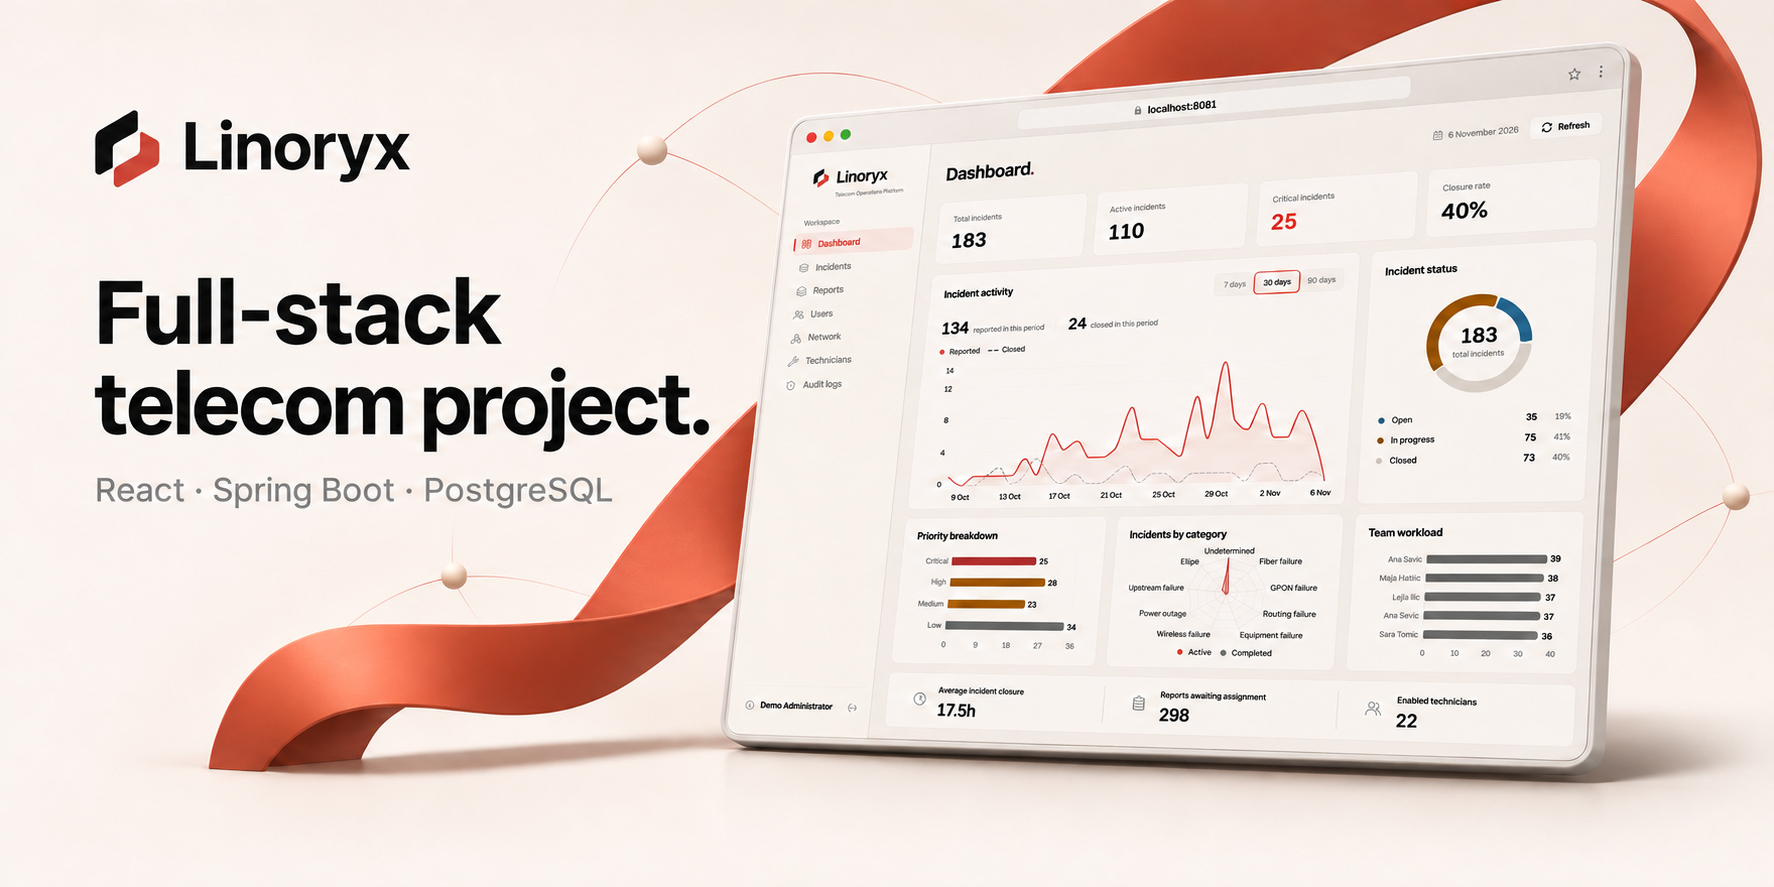
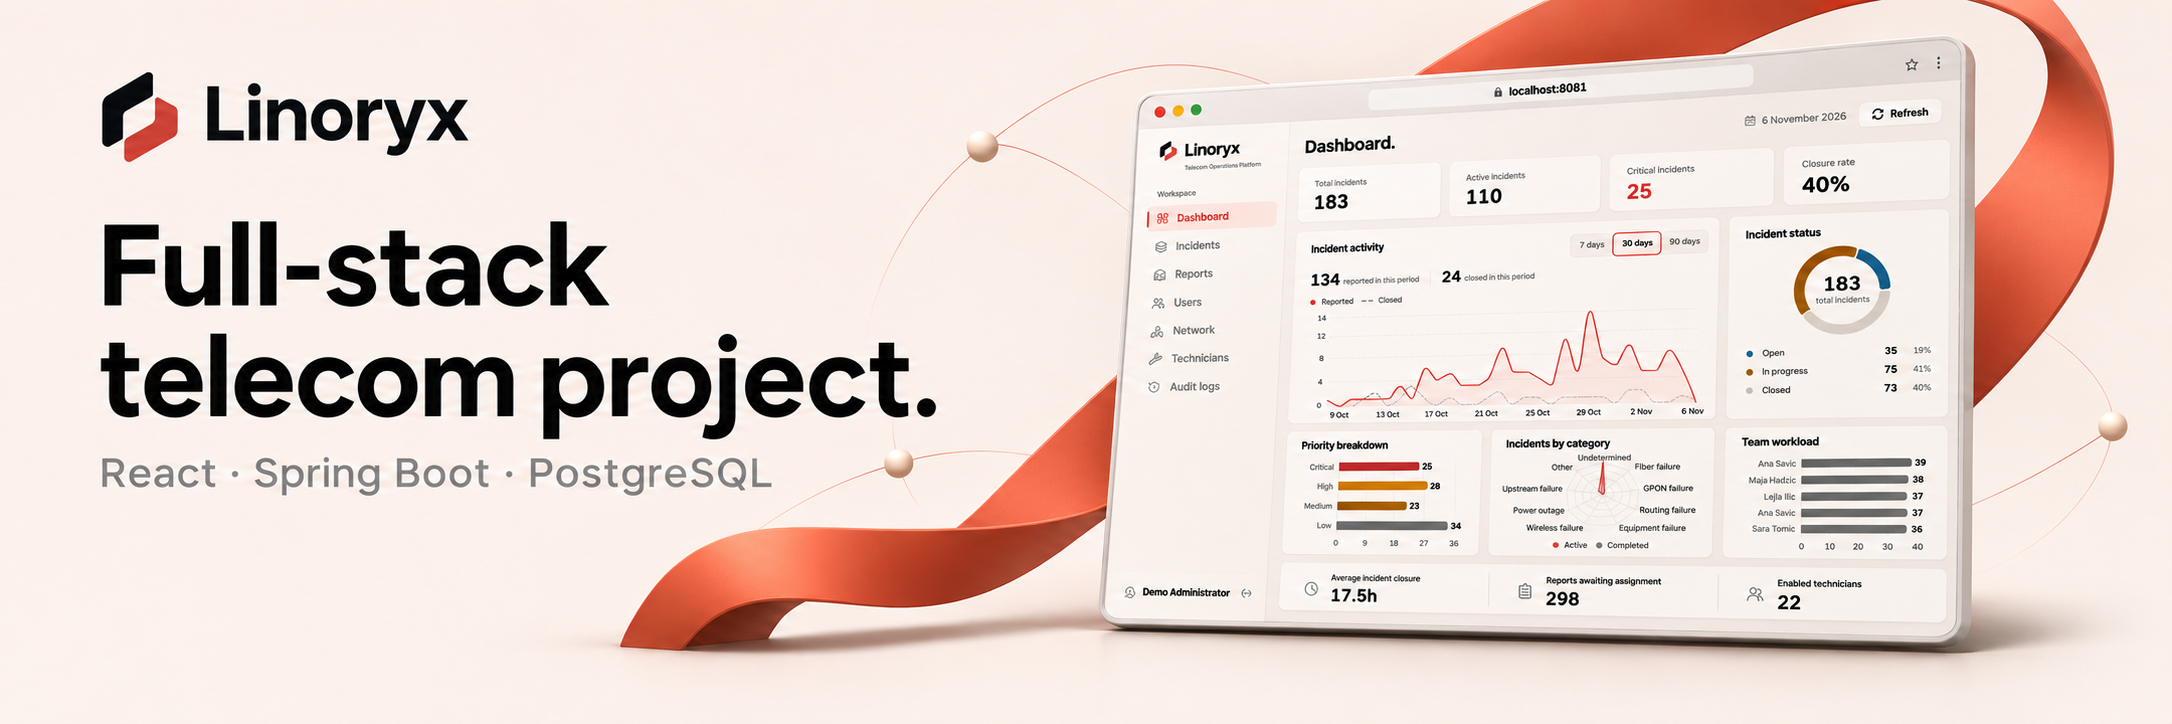
docs: fix compact four-slide README carousel

diff --git a/docs/readme/visuals/prompts.md b/docs/readme/visuals/prompts.md
@@ -1,27 +1,27 @@
-# README image prompts
+# README carousel image prompts
 
-These images were generated or edited with the built-in image-generation tool. The final files are `overview.png`, `integrations.png` and `responsive.png`. WebP copies are used in the README, and the GIF rotates through all three.
+The built-in image-generation tool produced four matching 3:1 slides. They are saved as `intro.png`, `overview.png`, `integrations.png` and `responsive.png`. The header embeds one GIF containing all four, in that order.
 
-## Overview
+## intro
 
-The base image uses the actual dashboard screenshot and Linoryx branding. These edits removed the footer and changed the wording to describe a full-stack project.
+Reference images: `linoryx-web/public/brand/auth-background.webp`, `linoryx-web/public/brand/social-preview.png`.
 
-### Footer edit
+Create ONE single carousel slide, ultra-wide panoramic 3:1 aspect ratio, approximately 1800x600. It must be SHORT and WIDE, like an ecommerce homepage carousel banner, not a tall poster. Recompose the scene to fit the new wide frame; never squash or stretch objects or UI. Keep important text and devices inside a 5% safe margin, with 5% clear space at bottom for carousel dots added later. No footer, no bottom logo, no footer rule, no buttons, no pagination, no watermark. The project is a junior developer portfolio, not a commercial advertisement. Inter-like typography and the existing Linoryx identity. Brand intro slide. Image 1 is the existing login/register red artwork and is the visual direction; image 2 is the approved Linoryx brand identity. Use a rich warm red / deep burgundy background inspired by the actual login screen, with subtle copper network paths and a restrained wave of light points. The left half shows ONE accurate Linoryx logo and wordmark, followed by exact readable text "Telecom Operations Platform". Use warm ivory lettering for contrast where needed, preserving the original interlocking ribbon mark shape. On the right, create a polished floating warm ivory access-card illustration inspired by a login/register screen, with a small neutral form layout and a few telecom network nodes / subtle antenna elements connected by fine lines. This is a cover illustration, not another dashboard slide. Strong horizontal composition, restrained details, calm red lighting. No marketing slogan and no sales claims.
 
-Edit this existing Linoryx product banner precisely. Remove the ENTIRE added footer at the very bottom: the repeated Linoryx logo/wordmark, the horizontal footer rule, and any footer caption such as Telecom Operations Platform. Fill those bottom pixels with a seamless continuation of the existing natural ivory studio background and lighting. Keep the original aspect ratio and dimensions. Preserve everything else: main headline, subtitle, primary top logo if present, device and UI screens, colors, ribbon, object positions, shadows. Do not add a new footer, bottom logo, bottom line, bottom text or watermark. Do not redesign the image. Also correct only the tiny fictional browser URL app.linoryx.com to localhost:8081. Keep the rest of the dashboard intact.
+## overview
 
-### Project wording edit
+Reference images: `docs/readme/visuals/overview.png`, `docs/readme/dashboard.jpg`.
 
-Make only two text substitutions in this existing Linoryx README banner. Replace the large headline "Operations, connected." with exact text "Full-stack telecom project." arranged naturally across two lines, in the same charcoal Inter-like type and same left area. Replace the small subtitle "Telecom Operations Platform" with exact text "React · Spring Boot · PostgreSQL". This is a junior developer portfolio project, so the wording should simply describe the work. Preserve the original Linoryx primary logo, actual dashboard screenshot, localhost:8081 browser URL, ivory background, terracotta ribbon, lighting, shadows, dimensions and all object placements. Do not redesign or change the interface. Do not add a footer, bottom logo, rule, caption, slogan, CTA or watermark. Keep the bottom as a plain continuation of the studio background.
+Create ONE single carousel slide, ultra-wide panoramic 3:1 aspect ratio, approximately 1800x600. It must be SHORT and WIDE, like an ecommerce homepage carousel banner, not a tall poster. Recompose the scene to fit the new wide frame; never squash or stretch objects or UI. Keep important text and devices inside a 5% safe margin, with 5% clear space at bottom for carousel dots added later. No footer, no bottom logo, no footer rule, no buttons, no pagination, no watermark. The project is a junior developer portfolio, not a commercial advertisement. Inter-like typography and the existing Linoryx identity. Edit/recompose the supplied full-stack project slide into this 3:1 horizontal format. Preserve the original logo, warm ivory and terracotta style and actual dashboard content. Left 43%: exact headline "Full-stack telecom project." on at most two lines, smaller exact text "React · Spring Boot · PostgreSQL". Right 57%: the real dashboard in a slim browser window, completely within the short horizontal canvas, with a restrained terracotta ribbon behind it. Keep localhost:8081 if the address bar is visible. Reduce empty top/bottom space and reduce the browser window proportionally to fit; do not crop off the interface or stretch it. All visual weight should fit a compact banner, not an expanded square composition.
 
-## External integrations
+## integrations
 
-Reference: the existing Linoryx social-preview image, used for the logo and colors.
+Reference images: `docs/readme/visuals/integrations.png`.
 
-Create a landscape 2:1 illustrated README image for a JUNIOR DEVELOPER'S full-stack portfolio project named Linoryx. This image showcases implemented integrations, not a commercial product advertisement. Use the attached brand image only as the logo and palette reference. Warm ivory #F7F5F2, charcoal #1A1A1A, restrained terracotta #D05445, Inter-like type. Main exact heading on left: "External API integrations." Under it, exact smaller text: "Geoapify geocoding · Gmail SMTP". On the right create two clearly separate polished technical illustrations with precise connecting arrows: upper integration shows a realistic address-search input, a folded street map with one terracotta location pin and a clearly labelled "Geoapify" API card, representing server-side address search and coordinate verification; lower integration shows a "Report resolved" event card linked to a "Spring Mail" card and an email envelope clearly labelled "Gmail SMTP". This is SMTP email, DO NOT label it the Gmail REST API. Communicate what was built through these two integration flows using tasteful dimensional ivory cards, thin network lines and subtle shadows. Do not invent app screens, live usage counts, deployment URLs or performance claims. No slogans, no call-to-action buttons, no sales language, no footer of any kind, no bottom repeated logo, no horizontal footer line, no bottom caption. Keep all objects inset at least 6%. A single small original Linoryx logo at upper left is enough. Aim for a designed portfolio technical case-study visual, crisp readable text and disciplined spacing.
+Create ONE single carousel slide, ultra-wide panoramic 3:1 aspect ratio, approximately 1800x600. It must be SHORT and WIDE, like an ecommerce homepage carousel banner, not a tall poster. Recompose the scene to fit the new wide frame; never squash or stretch objects or UI. Keep important text and devices inside a 5% safe margin, with 5% clear space at bottom for carousel dots added later. No footer, no bottom logo, no footer rule, no buttons, no pagination, no watermark. The project is a junior developer portfolio, not a commercial advertisement. Inter-like typography and the existing Linoryx identity. Edit/recompose the supplied integrations illustration into a 3:1 horizontal strip. Preserve the actual technical content and ivory/terracotta visual style. Left 38%: exact headline "External API integrations." on at most two lines; smaller text "Geoapify geocoding · Gmail SMTP". Right 62%: two compact horizontal integration flows, one above the other: address lookup → Geoapify → map pin; Report resolved → Spring Mail → Gmail SMTP. Simplify tiny decorative details so the text and technical flow stay readable at this shallow banner height. Do not invent other services. This is Gmail SMTP, not the Gmail REST API. No tall stacks of cards and no excess vertical whitespace.
 
-## Responsive design
+## responsive
 
-The base image uses the actual desktop, tablet and phone login captures. This edit removes the added footer while keeping the device presentation.
+Reference images: `docs/readme/visuals/responsive.png`, `docs/readme/captures/login-desktop.jpg`, `docs/readme/captures/login-tablet.jpg`, `docs/readme/captures/login-phone.jpg`.
 
-Edit this existing Linoryx product banner precisely. Remove the ENTIRE added footer at the very bottom: the repeated Linoryx logo/wordmark, the horizontal footer rule, and any footer caption such as Telecom Operations Platform. Fill those bottom pixels with a seamless continuation of the existing natural ivory studio background and lighting. Keep the original aspect ratio and dimensions. Preserve everything else: main headline, subtitle, primary top logo if present, device and UI screens, colors, ribbon, object positions, shadows. Do not add a new footer, bottom logo, bottom line, bottom text or watermark. Do not redesign the image.
+Create ONE single carousel slide, ultra-wide panoramic 3:1 aspect ratio, approximately 1800x600. It must be SHORT and WIDE, like an ecommerce homepage carousel banner, not a tall poster. Recompose the scene to fit the new wide frame; never squash or stretch objects or UI. Keep important text and devices inside a 5% safe margin, with 5% clear space at bottom for carousel dots added later. No footer, no bottom logo, no footer rule, no buttons, no pagination, no watermark. The project is a junior developer portfolio, not a commercial advertisement. Inter-like typography and the existing Linoryx identity. Edit/recompose the supplied device illustration into a 3:1 horizontal strip. Preserve the real Linoryx login screens: desktop has white form + red artwork panel; tablet and phone have the responsive white form. Left 35%: exact headline "Responsive design." on at most two lines; smaller exact text "Laptop · Tablet · Phone". Right 65%: one silver laptop, one portrait tablet, one portrait phone, all entirely within the short wide frame with correct unstretched proportions and clean edges. Scale the devices down proportionally and arrange horizontally rather than raising them into a tall poster. Preserve original logo and UI, warm ivory background, terracotta ribbon and soft shadows. No extra devices and no extra text.

diff --git a/README.md b/README.md
@@ -1,14 +1,5 @@
 <p align="center">
-  <picture>
-    <source media="(prefers-reduced-motion: reduce)" srcset="docs/readme/visuals/overview.webp" />
-    <img src="docs/readme/visuals/header-carousel.gif" alt="Linoryx full-stack project: dashboard, external integrations and responsive layouts" width="1200" height="600" />
-  </picture>
-</p>
-
-<p align="center">
-  <a href="docs/readme/visuals/overview.webp">Overview</a> ·
-  <a href="docs/readme/visuals/integrations.webp">Integrations</a> ·
-  <a href="docs/readme/visuals/responsive.webp">Devices</a>
+  <img src="docs/readme/visuals/header-carousel.gif" alt="Four-slide carousel: Linoryx telecom introduction, full-stack project, external API integrations and responsive design" width="1200" height="400" />
 </p>
 
 # Linoryx — Telecom Operations Platform
@@ -17,7 +8,7 @@ Linoryx is a full-stack project for managing telecom services and repair reports
 
 The project covers role-based access, report workflows, database relationships, external integrations and testing. You can run it locally with Docker.
 
-## <picture><source media="(prefers-reduced-motion: reduce)" srcset="docs/readme/visuals/product-preview-title.png" /><img src="docs/readme/visuals/product-preview-title.gif" alt="Product preview" width="1200" height="132" /></picture>
+## <img src="docs/readme/visuals/product-preview-title.gif" alt="Product preview" width="1200" height="132" />
 
 The dashboard shows open incidents, priorities and team workload. Here is the app running with local demo data.
 
@@ -27,13 +18,13 @@ The dashboard shows open incidents, priorities and team workload. Here is the ap
 - **Screenshots:** [dashboard](docs/readme/dashboard.jpg), [sign-in](docs/readme/captures/login-desktop.jpg) and [incident details](docs/readme/incident.jpg).
 - **Product walkthrough video:** coming soon.
 
-## <picture><source media="(prefers-reduced-motion: reduce)" srcset="docs/readme/visuals/responsive-design-title.png" /><img src="docs/readme/visuals/responsive-design-title.gif" alt="Responsive design" width="1200" height="132" /></picture>
+## <img src="docs/readme/visuals/responsive-design-title.gif" alt="Responsive design" width="1200" height="132" />
 
 ![Linoryx sign-in shown on a laptop, tablet and phone](docs/readme/visuals/responsive.webp)
 
 The layout adapts to laptops, tablets and phones. The sign-in form stays simple on smaller screens, with the artwork shown on desktop.
 
-## <picture><source media="(prefers-reduced-motion: reduce)" srcset="docs/readme/visuals/external-integrations-title.png" /><img src="docs/readme/visuals/external-integrations-title.gif" alt="External API integrations" width="1200" height="132" /></picture>
+## <img src="docs/readme/visuals/external-integrations-title.gif" alt="External API integrations" width="1200" height="132" />
 
 ![Implemented Geoapify address search and Gmail SMTP report notifications](docs/readme/visuals/integrations.webp)
 
@@ -42,7 +33,7 @@ The layout adapts to laptops, tablets and phones. The sign-in form stays simple 
 
 See [location setup](docs/network-services.md) and [email notifications](docs/email-notifications.md) for details.
 
-## <picture><source media="(prefers-reduced-motion: reduce)" srcset="docs/readme/visuals/existing-features-title.png" /><img src="docs/readme/visuals/existing-features-title.gif" alt="Existing features" width="1200" height="132" /></picture>
+## <img src="docs/readme/visuals/existing-features-title.gif" alt="Existing features" width="1200" height="132" />
 
 | Area | What it does |
 | --- | --- |
@@ -58,7 +49,7 @@ See [location setup](docs/network-services.md) and [email notifications](docs/em
 
 Address search needs a Geoapify API key. Maps use Leaflet and OpenStreetMap and need an internet connection. Existing records remain available without the key.
 
-## <picture><source media="(prefers-reduced-motion: reduce)" srcset="docs/readme/visuals/roles-title.png" /><img src="docs/readme/visuals/roles-title.gif" alt="Roles" width="1200" height="132" /></picture>
+## <img src="docs/readme/visuals/roles-title.gif" alt="Roles" width="1200" height="132" />
 
 | Role | Access |
 | --- | --- |
@@ -69,7 +60,7 @@ Address search needs a Geoapify API key. Maps use Leaflet and OpenStreetMap and 
 
 New accounts start as customers. The backend checks permissions for each role.
 
-## <picture><source media="(prefers-reduced-motion: reduce)" srcset="docs/readme/visuals/use-case-diagram-title.png" /><img src="docs/readme/visuals/use-case-diagram-title.gif" alt="Use-case diagram" width="1200" height="132" /></picture>
+## <img src="docs/readme/visuals/use-case-diagram-title.gif" alt="Use-case diagram" width="1200" height="132" />
 
 The diagram shows the main actions for all four roles. `«include»` means a required step; `«extend»` means an optional action. Administrators also have dispatcher access.
 
@@ -77,12 +68,9 @@ The diagram shows the main actions for all four roles. `«include»` means a req
 
 [Editable use-case source](docs/readme/visuals/source/use-cases.puml)
 
-## <picture><source media="(prefers-reduced-motion: reduce)" srcset="docs/readme/visuals/workflows-title.png" /><img src="docs/readme/visuals/workflows-title.gif" alt="Workflows" width="1200" height="132" /></picture>
+## <img src="docs/readme/visuals/workflows-title.gif" alt="Workflows" width="1200" height="132" />
 
-<picture>
-  <source media="(prefers-reduced-motion: reduce)" srcset="docs/readme/visuals/workflow.png" />
-  <img src="docs/readme/visuals/workflow.gif" alt="Report workflow: open, in progress, resolved and closed" width="1200" height="330" />
-</picture>
+<img src="docs/readme/visuals/workflow.gif" alt="Report workflow: open, in progress, resolved and closed" width="1200" height="330" />
 
 1. A customer reports a problem with an active service.
 2. An administrator or dispatcher links the report to an incident, starts the incident and assigns a technician.
@@ -92,7 +80,7 @@ The diagram shows the main actions for all four roles. `«include»` means a req
 
 Reports use `OPEN → IN_PROGRESS → RESOLVED → CLOSED`. Incidents use `OPEN → IN_PROGRESS → CLOSED`.
 
-## <picture><source media="(prefers-reduced-motion: reduce)" srcset="docs/readme/visuals/architecture-and-stack-title.png" /><img src="docs/readme/visuals/architecture-and-stack-title.gif" alt="Architecture and stack" width="1200" height="132" /></picture>
+## <img src="docs/readme/visuals/architecture-and-stack-title.gif" alt="Architecture and stack" width="1200" height="132" />
 
 ```text
 Browser → Nginx / React → Spring Boot REST API → PostgreSQL
@@ -128,7 +116,7 @@ docs/                            Project documentation
 compose.yaml                     Local Docker services
 ```
 
-## <picture><source media="(prefers-reduced-motion: reduce)" srcset="docs/readme/visuals/database-schema-title.png" /><img src="docs/readme/visuals/database-schema-title.gif" alt="Database schema" width="1200" height="132" /></picture>
+## <img src="docs/readme/visuals/database-schema-title.gif" alt="Database schema" width="1200" height="132" />
 
 The database has 11 tables and 16 foreign-key relationships. The overview shows the main fields, keys and relationships. Click it to open the full schema with all columns.
 
@@ -136,7 +124,7 @@ The database has 11 tables and 16 foreign-key relationships. The overview shows 
 
 [Editable schema source](docs/readme/visuals/source/database-schema.dot)
 
-## <picture><source media="(prefers-reduced-motion: reduce)" srcset="docs/readme/visuals/run-locally-title.png" /><img src="docs/readme/visuals/run-locally-title.gif" alt="Run locally" width="1200" height="132" /></picture>
+## <img src="docs/readme/visuals/run-locally-title.gif" alt="Run locally" width="1200" height="132" />
 
 Install JDK 25, Node.js 22.12+ and Docker Desktop with Linux containers. The Maven Wrapper is included. Run these commands in PowerShell from the project root.
 
@@ -193,7 +181,7 @@ For development, run these in separate terminals:
 
 Vite forwards `/api` requests to `API_PROXY_TARGET`, which defaults to `http://localhost:8080` in the example file.
 
-## <picture><source media="(prefers-reduced-motion: reduce)" srcset="docs/readme/visuals/testing-title.png" /><img src="docs/readme/visuals/testing-title.gif" alt="Testing" width="1200" height="132" /></picture>
+## <img src="docs/readme/visuals/testing-title.gif" alt="Testing" width="1200" height="132" />
 
 Use a separate database for backend tests:
 
@@ -217,7 +205,7 @@ Pop-Location
 
 The tests cover sign-in, permissions, services, reports, incidents and technicians. The frontend build also checks TypeScript. Previous local results are in [rebranding validation](docs/rebrand-validation.md).
 
-## <picture><source media="(prefers-reduced-motion: reduce)" srcset="docs/readme/visuals/upgrading-title.png" /><img src="docs/readme/visuals/upgrading-title.gif" alt="Upgrading an existing checkout" width="1200" height="132" /></picture>
+## <img src="docs/readme/visuals/upgrading-title.gif" alt="Upgrading an existing checkout" width="1200" height="132" />
 
 The folders are now `linoryx-api` and `linoryx-web`, and the Java package is `com.linoryx.api`. Update any IDE settings or scripts that use the old paths. Keep your existing `.env` values.
 
@@ -225,7 +213,7 @@ Rebuild the Docker images using the commands above, then run `docker compose up 
 
 Some internal names still use `vigil` to keep existing data and sessions working. See [brand guidelines](docs/brand-guidelines.md) for details.
 
-## <picture><source media="(prefers-reduced-motion: reduce)" srcset="docs/readme/visuals/documentation-title.png" /><img src="docs/readme/visuals/documentation-title.gif" alt="Further documentation" width="1200" height="132" /></picture>
+## <img src="docs/readme/visuals/documentation-title.gif" alt="Further documentation" width="1200" height="132" />
 
 - [Brand guidelines](docs/brand-guidelines.md)
 - [Frontend design](docs/frontend-design.md)
@@ -234,7 +222,7 @@ Some internal names still use `vigil` to keep existing data and sessions working
 - [Technician management](docs/technician-management.md)
 - [Local demo data](docs/demo-data.md)
 
-## <picture><source media="(prefers-reduced-motion: reduce)" srcset="docs/readme/visuals/roadmap-title.png" /><img src="docs/readme/visuals/roadmap-title.gif" alt="Roadmap" width="1200" height="132" /></picture>
+## <img src="docs/readme/visuals/roadmap-title.gif" alt="Roadmap" width="1200" height="132" />
 
 - Hosted demo and cloud deployment.
 - More product screenshots and a walkthrough video.

diff --git a/docs/readme/visuals/README.md b/docs/readme/visuals/README.md
@@ -1,18 +1,18 @@
 # README visuals
 
-The root README uses three project images, a rotating GIF header, animated section titles and technical diagrams. Colors, the logo and Inter fonts come from the project's existing branding.
+The root README starts with one compact four-slide carousel. Colors, the logo and Inter fonts come from the project's existing branding.
 
 ## Files
 
-- `overview.png`, `integrations.png`, `responsive.png`: project images made with the built-in image-generation tool. The matching WebP files are the smaller README versions. There are no added footers.
-- `header-carousel.gif`: three slides with a 3.5-second hold and short crossfades. It loops automatically without JavaScript.
+- `intro.png`, `overview.png`, `integrations.png`, `responsive.png`: matching 3:1 slides made with the built-in image-generation tool. The red intro uses the login/register artwork, logo and telecom illustration. The following slides show the full-stack project, integrations and responsive design. Matching WebP files are also included.
+- `header-carousel.gif`: one 1200 × 400 carousel with a four-second hold per slide, short horizontal slide transitions and four position indicators. The red intro is its first slide. It loops automatically without JavaScript. There are no added footers or separate intro banner.
 - `workflow.gif`: highlights the report states in order. `workflow.png` is its static version.
 - `*-title.gif`: animated headings for all 14 sections. Each has a matching static PNG and editable SVG source.
 - `database-schema.png`: overview of all 11 tables, their keys and 16 foreign-key relationships. The linked `database-schema.svg` has every column; `database-schema-full.png` is its raster version. The source folder includes the schema metadata and editable Graphviz files.
 - `use-cases.svg` / `.png`: UML diagram with all four roles, seven required includes, three optional extensions and administrator-to-dispatcher inheritance. The source folder includes the model and editable PlantUML file.
 - `../captures/`: actual desktop, tablet and phone login screenshots used as references for the device image.
 
-The dashboard numbers are local demo data. The integration image shows Geoapify and Gmail SMTP through Spring Mail. The root README also includes the actual dashboard screenshot. Animated headings, the header and workflow have static images for readers who request reduced motion, when supported by their Markdown viewer.
+The dashboard numbers are local demo data. The integration image shows Geoapify and Gmail SMTP through Spring Mail. The root README also includes the actual dashboard screenshot. The carousel, headings and workflow embed their GIFs directly so the requested animations play. Matching static files remain available in this folder.
 
 ## Rebuild the graphics
 
